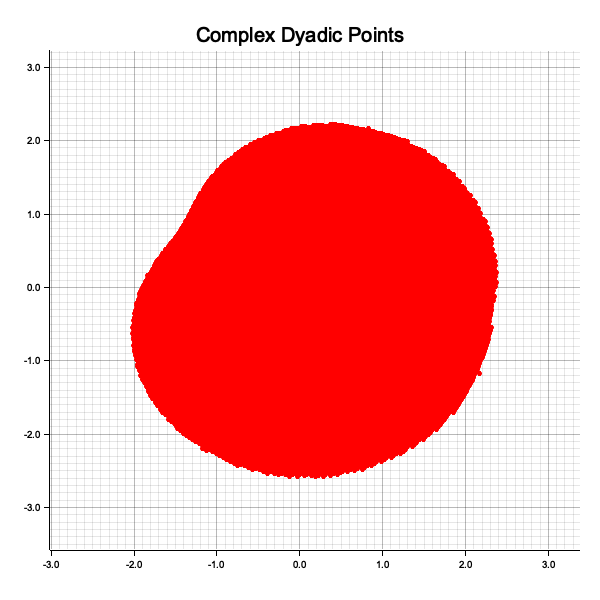
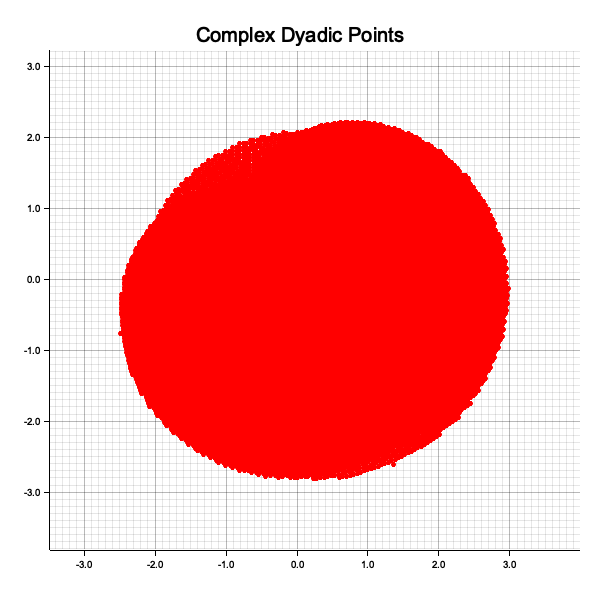
fixed rho, r_hat, eps

Changed region(s): [[0.03, 0.06, 0.96, 0.75], [0.03, 0.75, 0.96, 0.96], [0.06, 0.93, 0.09, 0.96]]

diff --git a/src/corollary_2.rs b/src/corollary_2.rs
@@ -40,10 +40,8 @@ pub fn calculate_epsilon(r : f64, r_hat : Dyadic, rho : Dyadic) -> Dyadic {
     eps  
 }
 
-
-
 fn dyadic_floor_bits(x: f64, prec_bits: i32) -> Dyadic {
-    if !(x.is_finite()) || x <= 0.0 {
+    if !x.is_finite() || x <= 0.0 {
         return Dyadic::zero();
     }
     let scale: i128 = 1i128 << prec_bits;
@@ -51,78 +49,60 @@ fn dyadic_floor_bits(x: f64, prec_bits: i32) -> Dyadic {
     Dyadic::new(n, -prec_bits).reduce()
 }
 
-/// Build a ComplexDyadic from polar (r_hat * e^{iθ}) with dyadic rounding.
+/// Build a ComplexDyadic point z = r_hat * e^{iθ}, rounding each coordinate
+/// down to dyadic with `frac_bits` fractional bits.
 fn point_on_circle(r_hat: Dyadic, theta: f64, frac_bits: i32) -> ComplexDyadic {
     let rc = r_hat.to_f64();
     let x = rc * theta.cos();
     let y = rc * theta.sin();
+    let sx = if x < 0.0 { -1 } else { 1 };
+    let sy = if y < 0.0 { -1 } else { 1 };
     ComplexDyadic::new(
-        dyadic_floor_bits(x.abs(), frac_bits) * Dyadic::new(if x < 0.0 { -1 } else { 1 }, 0),
-        dyadic_floor_bits(y.abs(), frac_bits) * Dyadic::new(if y < 0.0 { -1 } else { 1 }, 0),
+        dyadic_floor_bits(x.abs(), frac_bits) * Dyadic::new(sx, 0),
+        dyadic_floor_bits(y.abs(), frac_bits) * Dyadic::new(sy, 0),
     )
 }
 
-/// Certified lower bound ρ on |f'(z)| over |z|=r_hat, using:
-///   ρ  = min_j {|f'(z_j)|} - μ''_{r̂} * r_hat * Δθ
-/// where z_j = r_hat * e^{2π i j / N}, and Δθ = 2π/N.
-/// Increases N if needed; if still non-positive, moves r_hat closer to r.
+/// NAIVE version:
+/// - choose r_hat = r + min((1 - r)/8, 2^{-6})
+/// - sample f' at N points on |z| = r_hat
+/// - set rho = min_j |f'(z_j)| (rounded down to dyadic)
+///
+/// Returns (r_hat, rho).
 pub fn certify_r_hat_rho(
-    r: Dyadic,                   // base radius (dyadic in (0,1))
-    fprime: &ComplexFunction,    // f' (your existing derivative object)
-    target_margin_bits: i32,     // how finely to round ρ down to dyadic (e.g. 40)
+    r: Dyadic,
+    fprime: &ComplexFunction,
+    n_samples: usize,   // e.g. 512 or 1024
+    coord_frac_bits: i32, // dyadic rounding for z, e.g. 50
+    rho_frac_bits: i32,   // dyadic rounding for rho, e.g. 40
 ) -> (Dyadic, Dyadic) {
-    assert!(r > Dyadic::zero() && r < Dyadic::new(1,0), "r must be in (0,1)");
-    let one = Dyadic::new(1,0);
+    assert!(r > Dyadic::zero() && r < Dyadic::new(1, 0), "r must be in (0,1)");
+    let one = Dyadic::new(1, 0);
 
-    // Start slightly above r, safely below 1.
-    let mut step = ((one - r) * Dyadic::new(1, -3)).reduce(); // (1-r)/8
+    // Pick r_hat slightly above r
+    let mut step = ((one - r) * Dyadic::new(1, -3)).reduce(); // (1 - r)/8
+    let fallback = Dyadic::new(1, -6);                        // 2^-6
+    if step <= Dyadic::zero() || step > fallback { step = fallback; }
+
     let mut r_hat = (r + step).reduce();
     if r_hat >= one { r_hat = (one - Dyadic::new(1, -12)).reduce(); }
 
-    // Outer loop: if we fail to get ρ>0, move r̂ closer to r by halving the step.
-    let min_step = Dyadic::new(1, -60);
+    // Sample f' on |z| = r_hat
+    let n = n_samples.max(8);
+    let dtheta = std::f64::consts::TAU / (n as f64);
+    let mut min_mag = f64::INFINITY;
 
-    'outer: loop {
-        // μ''_{r̂} from your psi crate (Lemma 6 uses an upper bound on sup|f''| on D_{r̂})
-        let c = 1.0 + (2.0f64).powi(-100);
-        let mu2 = mu_second(&c, &r_hat); // Dyadic upper bound on sup_{|z|<=r̂} |f''(z)|
-
-        // Try increasing angular resolutions N until Lipschitz-corrected min is > 0
-        let mut n: usize = 256;
-        while n <= 1 << 16 {
-            let delta_theta = std::f64::consts::TAU / (n as f64);
-            // Lipschitz radius on the circle between samples: ≤ μ'' * r̂ * Δθ
-            let lip = mu2 * r_hat.to_f64() * delta_theta;
-
-            // Sample f' on |z|=r_hat
-            let mut min_mag = std::f64::INFINITY;
-            for j in 0..n {
-                let theta = (j as f64) * delta_theta;
-                let z = point_on_circle(r_hat, theta, /*frac_bits*/ 50);
-                let val = fprime.eval(&z); // ComplexDyadic
-                let mag = (val.re.to_f64().powi(2) + val.im.to_f64().powi(2)).sqrt();
-                if mag < min_mag { min_mag = mag; }
-            }
-
-            // Certified uniform lower bound over the whole circle
-            let rho_f64 = min_mag - lip;
-            if rho_f64 > 0.0 {
-                // Round down to a dyadic strictly below rho_f64
-                let rho = dyadic_floor_bits(rho_f64, target_margin_bits);
-                if rho > Dyadic::zero() {
-                    return (r_hat, rho);
-                }
-            }
-            n *= 2; // refine sampling
-        }
-
-        // If we get here, even with fine sampling and this r̂ we couldn't certify ρ>0.
-        // Move r̂ closer to r and try again.
-        step = (step * Dyadic::new(1, -1)).reduce();
-        assert!(step > min_step, "Could not certify a positive ρ; try smaller r̂ or adjust bounds.");
-        r_hat = (r + step).reduce();
-        if r_hat >= one { r_hat = (one - Dyadic::new(1, -12)).reduce(); }
+    for j in 0..n {
+        let theta = (j as f64) * dtheta;
+        let z = point_on_circle(r_hat, theta, coord_frac_bits);
+        let val = fprime.eval(&z); // ComplexDyadic
+        let mag = val.abs();
+        if mag < min_mag { min_mag = mag; }
     }
+
+    // Naive rho = min magnitude (rounded down to dyadic)
+    let rho = dyadic_floor_bits(min_mag, rho_frac_bits);
+    (r_hat, rho)
 }
 
     

diff --git a/src/main.rs b/src/main.rs
@@ -110,11 +110,7 @@ async fn main() -> Result<(), Box<dyn std::error::Error>> {
         Dyadic::new(1, -3),
         Dyadic::new(1, -3),
     ];
-    let m_seq2 = vec![
-        Dyadic::new(1, 2),
-        Dyadic::new(1, 2),
-        Dyadic::new(1, 2)
-    ];
+    let m_seq2 = m_vec(5) ;
     let coeffs = psi_infinity(&m_seq2, &t_seq1, &best_word_length);
     let fprime = ComplexFunction::new(
         BoundingSequence::new(m_seq1.clone()),
@@ -138,10 +134,10 @@ async fn main() -> Result<(), Box<dyn std::error::Error>> {
         Dyadic::new(1, 0), 
     ];
     // let _top3 = sweep_mseq_len3(&possible_m, 6, delta, -7).await;
-    let r = Dyadic::new(1,0) - Dyadic::new(1,-4);
-    let (r_hat, rho) = certify_r_hat_rho(r, &fprime, 40);
-
-    println!("{:?}, {:?}", r_hat.to_f64(), rho.to_f64()) ;
+    let r = Dyadic::new(1,0) - Dyadic::new(1,-6);
+    let (r_hat, rho) = certify_r_hat_rho(r, &fprime, 500, 20, 20);
+    let eps = calculate_epsilon(r.to_f64(), r_hat, rho);
+    println!("{:?}, {:?}, {:?}", r_hat.to_f64(), rho.to_f64(), eps) ;
 
     Ok(())
 }
